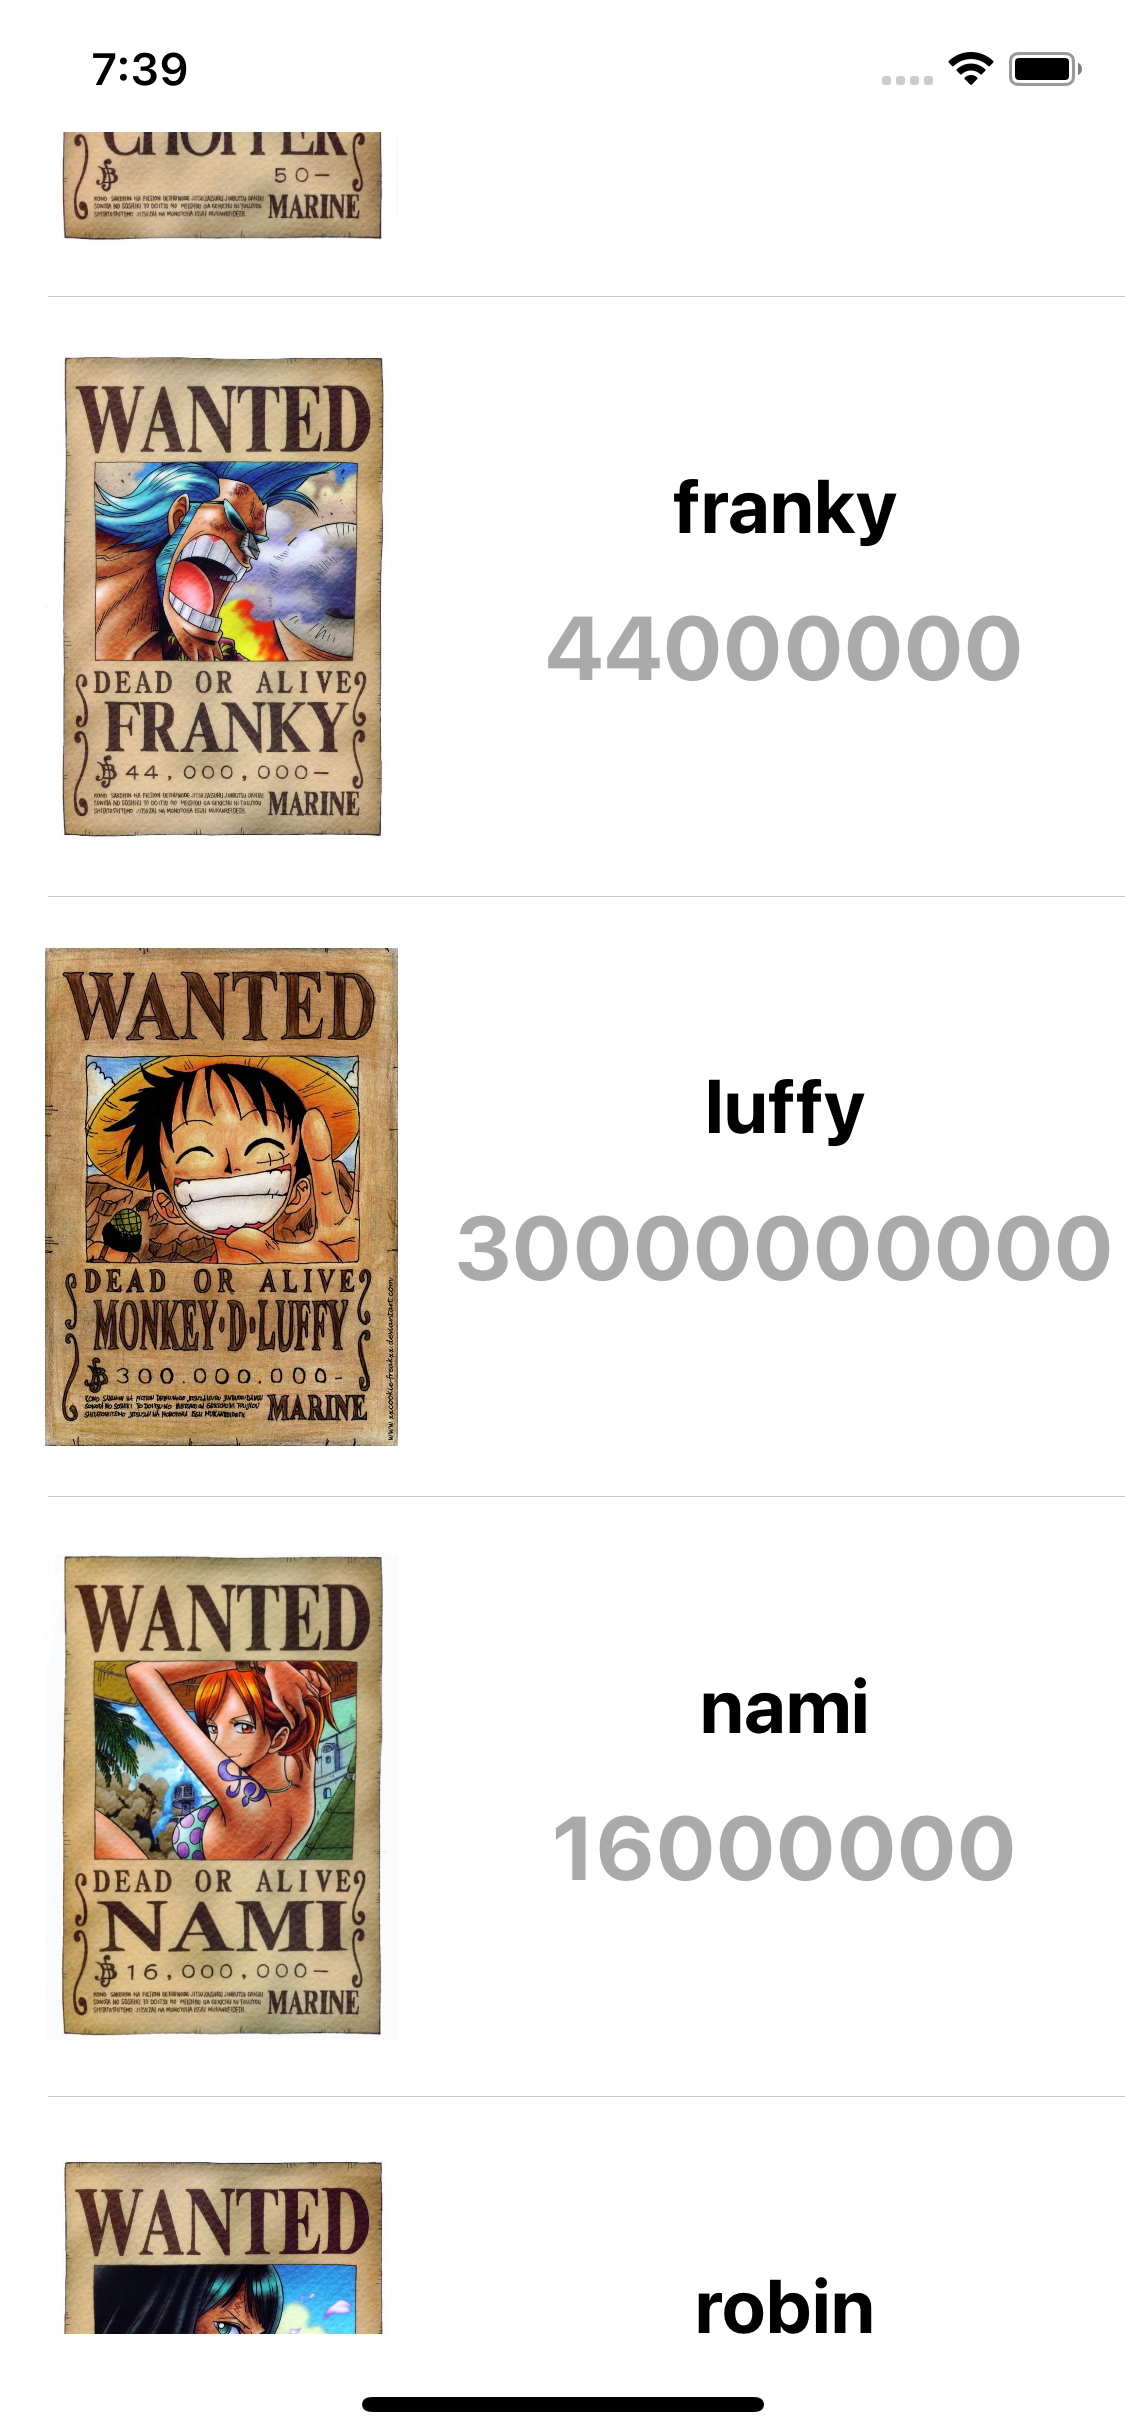
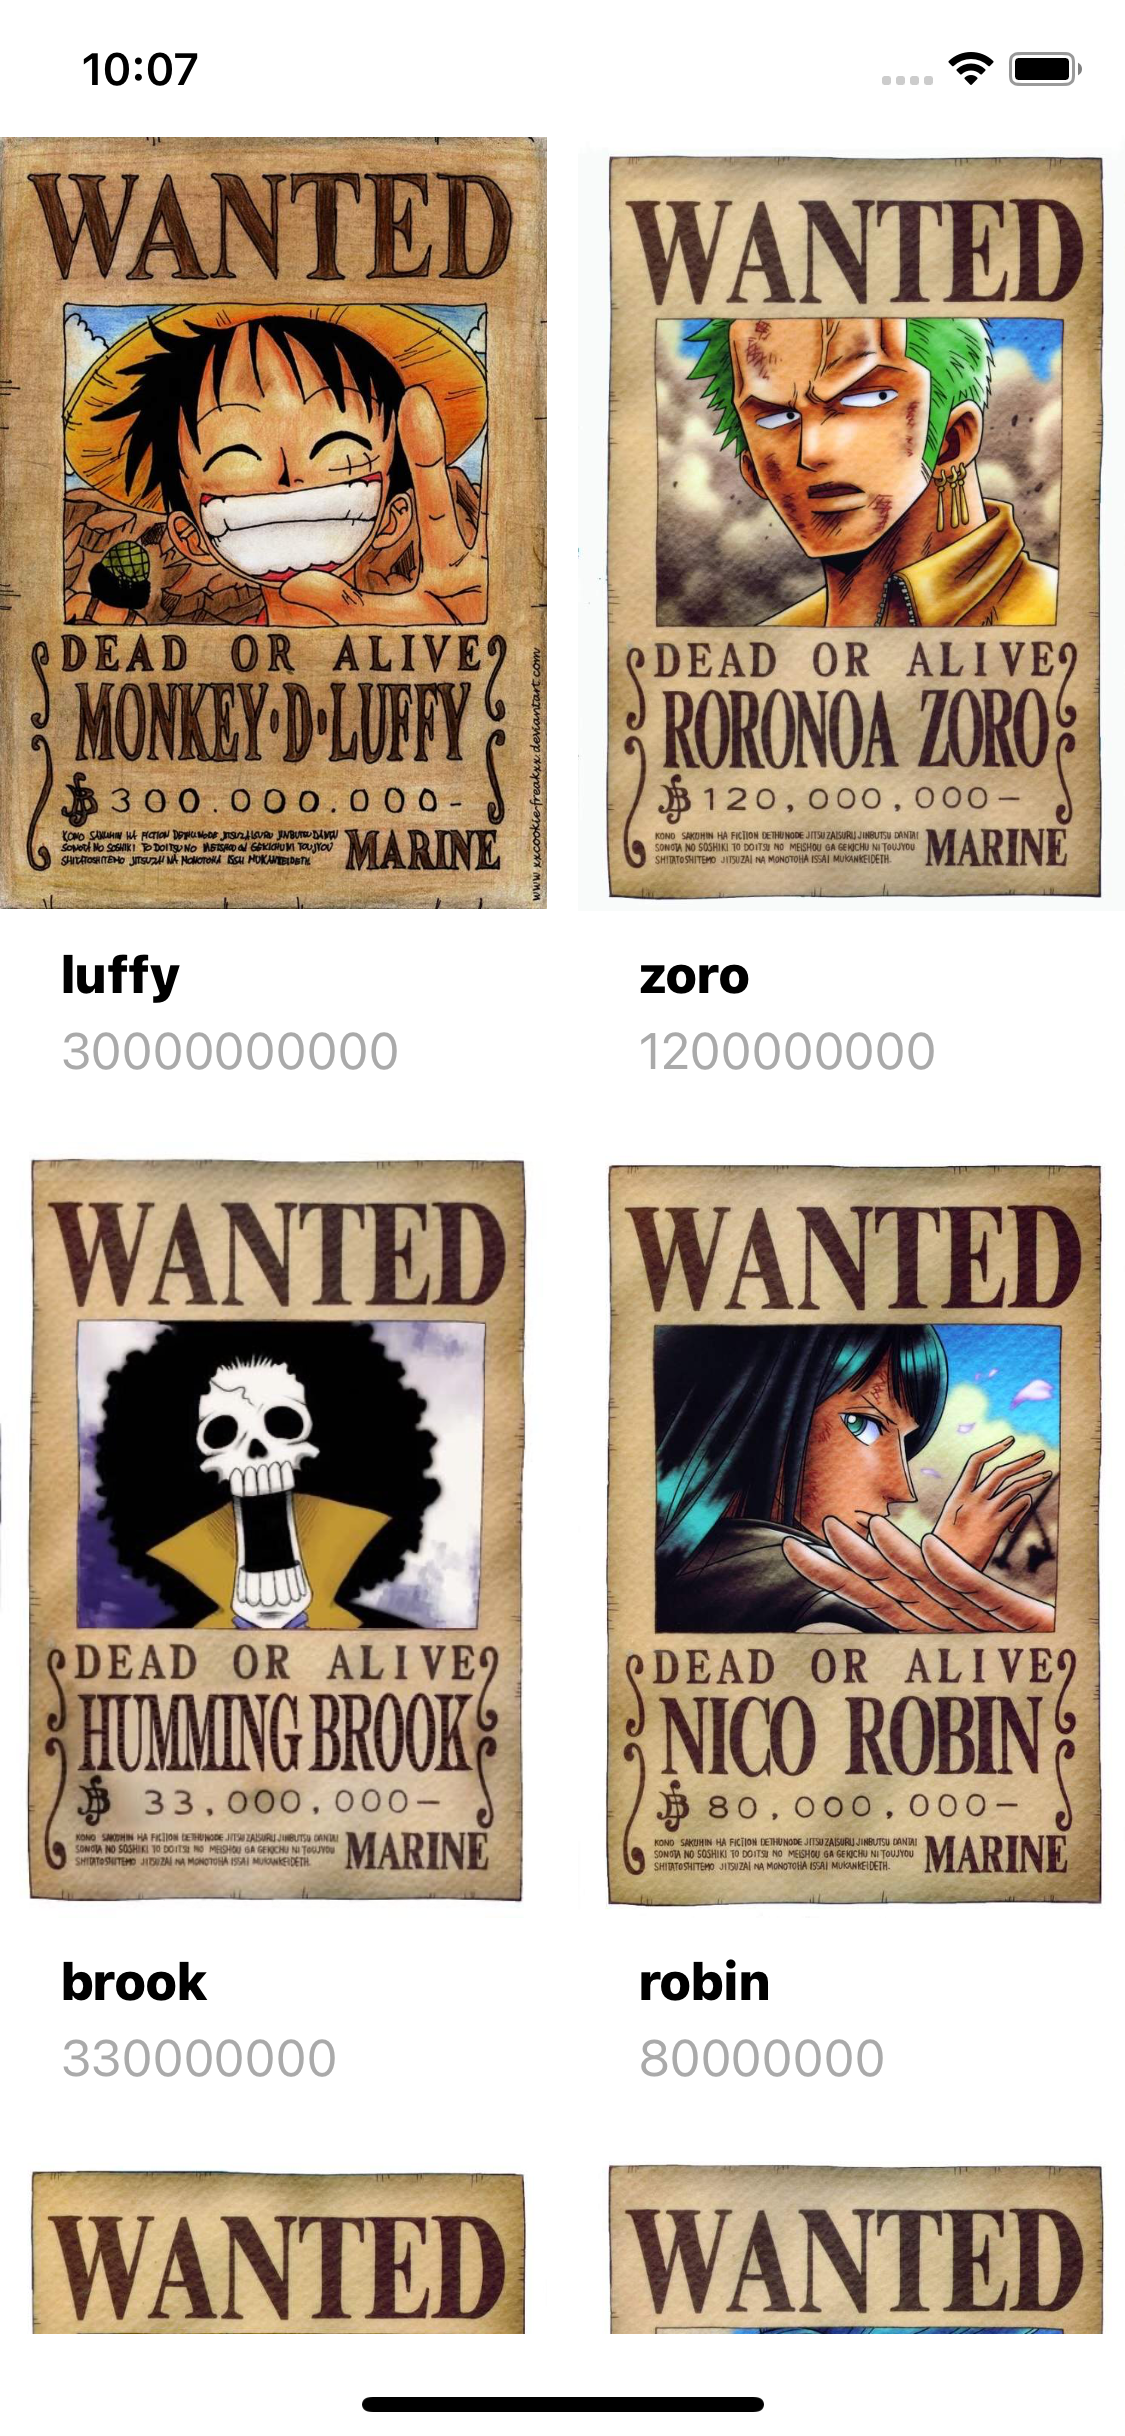
to Collection View

diff --git a/BountyList/BountyViewController.swift b/BountyList/BountyViewController.swift
@@ -8,7 +8,8 @@
 
 import UIKit
 
-class BountyViewController: UIViewController, UITableViewDataSource, UITableViewDelegate{
+
+class BountyViewController: UIViewController, UICollectionViewDataSource, UICollectionViewDelegate,UICollectionViewDelegateFlowLayout{
     
     // MVVM
     
@@ -25,8 +26,6 @@ class BountyViewController: UIViewController, UITableViewDataSource, UITableView
     // - BountyViewModel
     // > BountyViewModel을 만들고, 뷰레이어에서 필요한 메서드 만들기
     // > 모델 가지고 있기,, BountyInfo 들
-    
-
     
     let viewModel = BountyViewModel()
 
@@ -50,44 +49,44 @@ class BountyViewController: UIViewController, UITableViewDataSource, UITableView
         // Do any additional setup after loading the view.
     }
     
-    // UITableViewDataSource
+    //UICollectionViewDataSource,
+    // 몇개를 보여줄까요?
     
-    func tableView(_ tableView: UITableView, numberOfRowsInSection section: Int) -> Int {
+    func collectionView(_ collectionView: UICollectionView, numberOfItemsInSection section: Int) -> Int {
         return viewModel.numOfBountyInfoList
     }
     
-    func tableView(_ tableView: UITableView, cellForRowAt indexPath: IndexPath) -> UITableViewCell {
-        guard let cell = tableView.dequeueReusableCell(withIdentifier:"cell", for: indexPath) as? ListCell else {
-            return UITableViewCell()
-        }
-
-        let bountyInfo = viewModel.bountyInfo(at: indexPath.row)
+    // 셀은 어떻게 표현할까요?
+    func collectionView(_ collectionView: UICollectionView, cellForItemAt indexPath: IndexPath) -> UICollectionViewCell {
+        guard let cell = collectionView.dequeueReusableCell(withReuseIdentifier: "GridCell", for: indexPath) as? GridCell else { return UICollectionViewCell() }
         
+        let bountyInfo = viewModel.bountyInfo(at: indexPath.item)
         cell.update(info: bountyInfo)
         return cell
     }
     
-    // UITableViewDelegate
-    func tableView(_ tableView: UITableView, didSelectRowAt indexPath: IndexPath) {
-        print("---> \(indexPath.row)")
-        performSegue(withIdentifier: "showDetail", sender: indexPath.row)
-    }
-}
-
-class ListCell: UITableViewCell {
-    @IBOutlet weak var imgView: UIImageView!
-    @IBOutlet weak var nameLabel: UILabel!
-    @IBOutlet weak var bountyLabel: UILabel!
+    // UICollectionViewDelegate,
+    // 셀이 클릭이 되었을때 어쩔까요?
     
-    func update(info: BountyInfo){
-        imgView.image = info.image
-        nameLabel.text = info.name
-        bountyLabel.text = "\(info.bounty)"
+    func collectionView(_ collectionView: UICollectionView, didSelectItemAt indexPath: IndexPath) {
+        print("---> \(indexPath.item)")
+        performSegue(withIdentifier: "showDetail", sender: indexPath.item)
     }
+    
+    //UICollectionViewDelegateFlowLayout
+    // cell size를 계산할거다 (목표: 다양한 디바이스에서 일관적인 디자인을 보여주기 위해)
+    
+    func collectionView(_ collectionView: UICollectionView, layout collectionViewLayout: UICollectionViewLayout, sizeForItemAt indexPath: IndexPath) -> CGSize {
+        let itemSpacing: CGFloat = 10
+        let textAreaHeight: CGFloat = 65
+        
+        let width: CGFloat = (collectionView.bounds.width - itemSpacing) / 2
+        let height: CGFloat = width * 10/7 + textAreaHeight
+        return CGSize(width: width, height: height)
+        
+    }
+
 }
-
-
-
 
 class BountyViewModel{
     let bountyInfoList: [BountyInfo] = [
@@ -113,5 +112,17 @@ class BountyViewModel{
     
     func bountyInfo(at index: Int) -> BountyInfo{
         return sortedList[index]
+    }
+}
+
+class GridCell: UICollectionViewCell {
+    @IBOutlet weak var imgView: UIImageView!
+    @IBOutlet weak var nameLabel: UILabel!
+    @IBOutlet weak var bountyLabel: UILabel!
+    
+    func update(info: BountyInfo){
+        imgView.image = info.image
+        nameLabel.text = info.name
+        bountyLabel.text = "\(info.bounty)"
     }
 }
